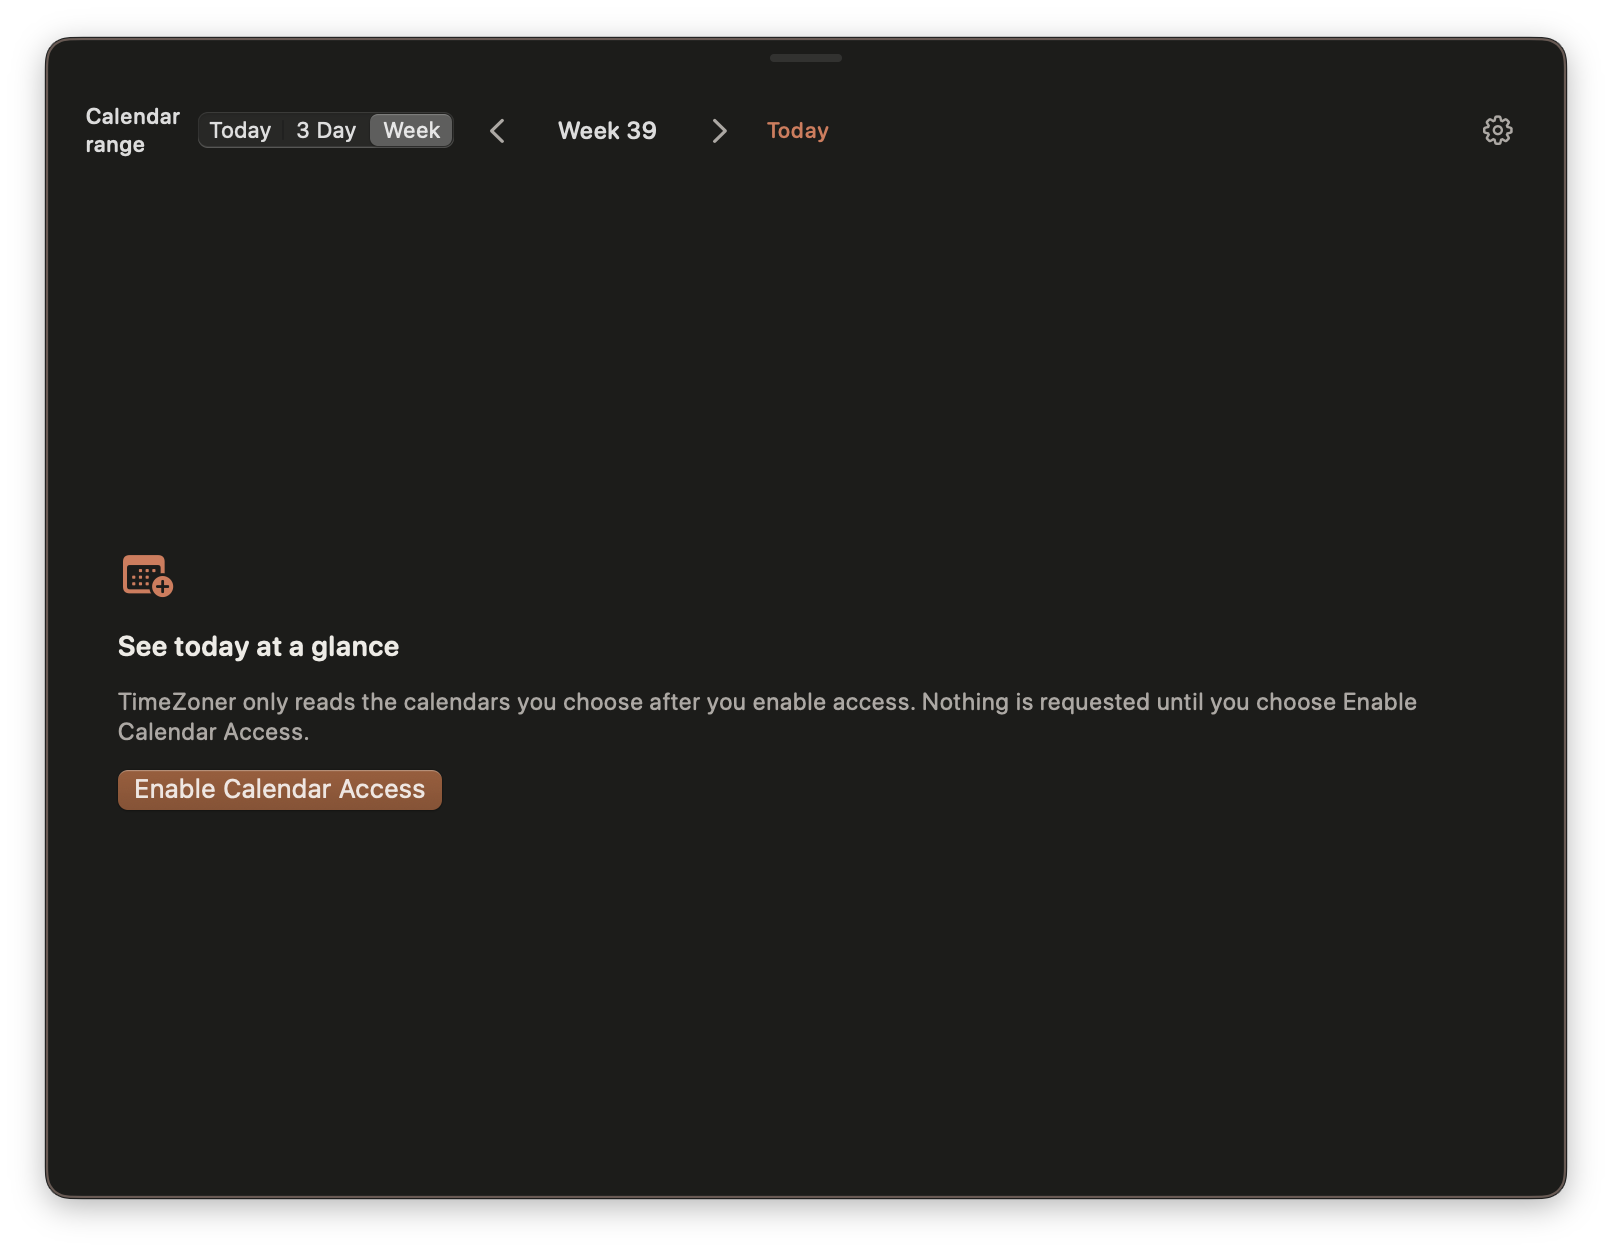
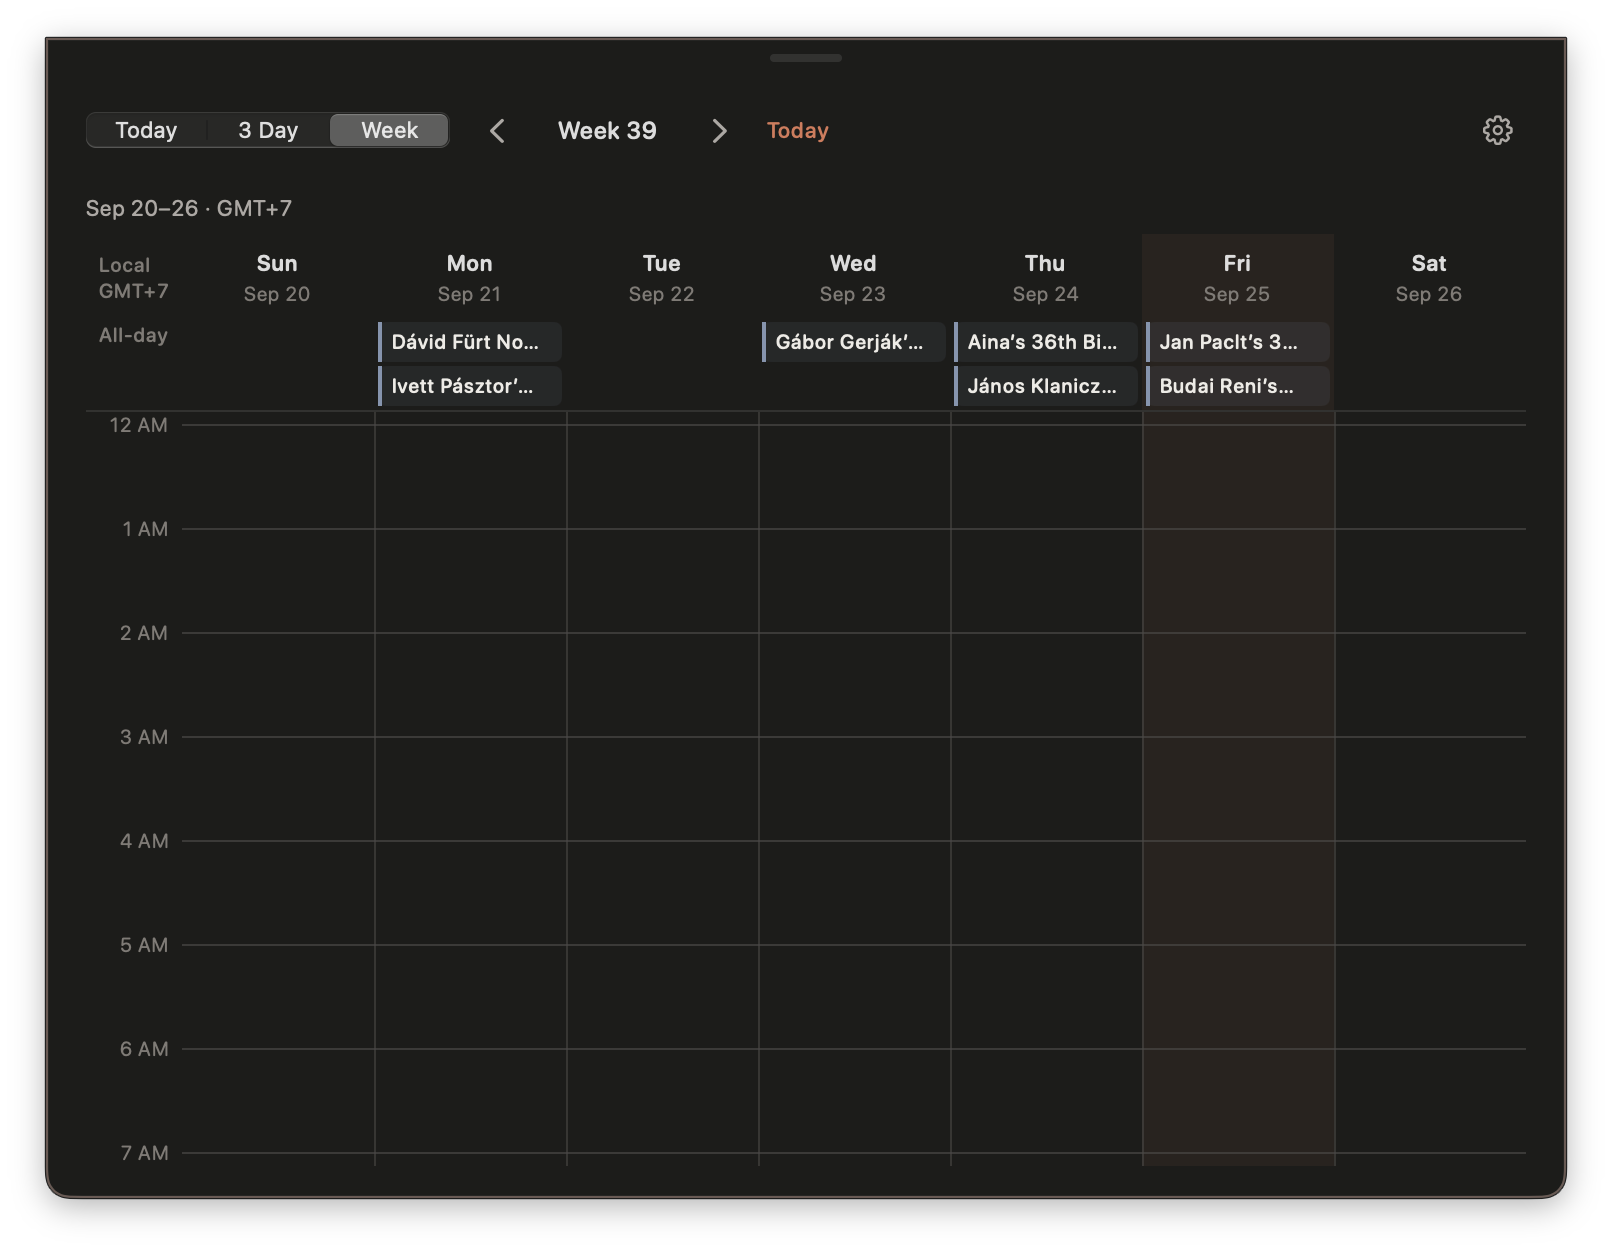
docs: refresh calendar workspace verification

diff --git a/docs/verification/calendar-workspace-transition-2026-09-25.md b/docs/verification/calendar-workspace-transition-2026-09-25.md
@@ -2,48 +2,50 @@
 
 ## Build under test
 
-- Source commit: `e314fdd0c7b6c963c7c0766563a9c54dd6490a70` (`fix: retain calendar workspace panel size`). The source tree built, installed, and inspected matched this commit; this record is committed separately.
+- Source commits: `6bb4f01` (`fix: retain calendar workspace panel size`), `3bb3004bbc74d2da1a8bf9448b44c4a3678d9f87` (`fix: hide calendar range picker labels`), and `2e00c7ab35f93df25b04a56b4b18b787a7a874c2` (`fix: settle calendar transitions for external changes`). The source tree built, installed, and inspected matched these commits; this record is committed separately.
 - Host: macOS 26.6.2 (25G83), arm64.
 - Installed executable: `/Users/team/Applications/TimeZoner.app/Contents/MacOS/TimeZoner`.
-- Installation: after normally quitting the identified TimeZoner processes, ran `./install.sh --skip-build --destination /Users/team/Applications`, verified the installed bundle signature, then ran `open -n /Users/team/Applications/TimeZoner.app`.
-- Process verification: the final launch was checked by exact executable path, not app name. After restoring the original `Show agenda = false` preference, it was `52252 /Users/team/Applications/TimeZoner.app/Contents/MacOS/TimeZoner`.
+- Installation: after inspecting identified TimeZoner processes, attempted normal Quit. Windowless orphan instances did not terminate, so only their recorded TimeZoner PIDs received graceful `TERM` before running `./install.sh --skip-build --destination /Users/team/Applications`, verifying the installed bundle signature, and finally running `open -n /Users/team/Applications/TimeZoner.app`.
+- Process verification: the final launch was checked by exact executable path, not app name. After restoring the original `Show agenda = false` preference, it was `60905 /Users/team/Applications/TimeZoner.app/Contents/MacOS/TimeZoner`.
 - Installed signature: `codesign --verify --deep --strict /Users/team/Applications/TimeZoner.app` exited 0.
 
 ## Automated checks
 
 | Command | Actual result |
 | --- | --- |
-| `cd app && swift run TimeZonerTests` | 773 passed, 0 failed; exit 0. Includes the new `CalendarPanelHostTests` regression. |
+| `cd app && swift run TimeZonerTests` | 777 passed, 0 failed; exit 0. Includes the panel-host, picker-accessibility, deep-link-entry, and current-display-restoration regressions. |
 | `./scripts/build.sh` | Production build completed; `TimeZoner.app` ad-hoc signed. |
 | `codesign --verify --deep --strict app/TimeZoner.app` | Exit 0, no diagnostic output. |
 | `git diff --check` | Exit 0, no output. |
 
 ## Native observations
 
-- Calendar permission was not granted. Rendering the compact calendar showed the access explanation and **Enable Calendar Access** control without requesting permission; that button was not activated.
+- An initial pre-fix capture showed the access explanation and **Enable Calendar Access** control without requesting permission; that button was not activated. In the final installed-app recheck, existing EventKit-local read access refreshed and rendered local all-day rows plus read-only calendar controls. No access button or privacy control was activated, and no calendar event was created, changed, or deleted.
 - With a temporary, restored `Show agenda` preference, the compact companion was a real 220 × 580 native window adjacent to the normal 768 × 580 TimeZoner panel. Its header exposed only `Friday, Sep 25` and **Expand calendar**: no `Agenda` title or duplicate calendar glyph was present.
 - Expanding produced two real native windows: a 240 × 580 rail and a 760 × 580 full calendar. The rail retained its stacked, neutral city cards and explicit **Expand TimeZoner** return control. Returning restored the normal TimeZoner surface and compact companion.
 - The full calendar settings gear opened the same settings popover. The normal-panel gear was also observed. The observed captures retain the existing neutral cards, controls, typography, borders, spacing, and map styling.
 - A typed `11:30am SF` changed the city values and the seven interior three-hour map labels from `01 04 07 10 13 16 19` to `09 12 15 18 21 00 03`; **Now** restored the live city values and label sequence. The neutral day/night overlay remained visible and city dots remained legible.
 - A native-QA defect was found and repaired under Task 7's concrete-defect allowance. Before the repair, expanding with Calendar access unavailable left the calendar panel at 760 × 1904 while the coordinator's frame target was 760 × 580, leaving a large blank area. The cause was an unconstrained bare `NSHostingView` adopting the full calendar root's intrinsic size. `CalendarPanelHosting.fixed` sets the reviewed initial host size and clears `sizingOptions`; after rebuilding/reinstalling, the native window report was exactly rail 240 × 580 and calendar 760 × 580. `CalendarPanelHostTests` is the focused regression for the fixed hosting policy.
-- Stable-state captures (absolute local paths):
-  - `/Users/team/dev/worktrees/Timezoner/codex-tz-calendar-verification/docs/verification/screenshots/calendar-workspace-normal-light-final.png`
-  - `/Users/team/dev/worktrees/Timezoner/codex-tz-calendar-verification/docs/verification/screenshots/calendar-workspace-compact-light-final.png`
-  - `/Users/team/dev/worktrees/Timezoner/codex-tz-calendar-verification/docs/verification/screenshots/calendar-workspace-rail-light-fixed.png`
-  - `/Users/team/dev/worktrees/Timezoner/codex-tz-calendar-verification/docs/verification/screenshots/calendar-workspace-full-light-fixed.png`
-  - `/Users/team/dev/worktrees/Timezoner/codex-tz-calendar-verification/docs/verification/screenshots/calendar-workspace-normal-dark-final.png`
-  - `/Users/team/dev/worktrees/Timezoner/codex-tz-calendar-verification/docs/verification/screenshots/calendar-workspace-compact-dark-final.png`
-  - `/Users/team/dev/worktrees/Timezoner/codex-tz-calendar-verification/docs/verification/screenshots/calendar-workspace-rail-dark-fixed.png`
-  - `/Users/team/dev/worktrees/Timezoner/codex-tz-calendar-verification/docs/verification/screenshots/calendar-workspace-full-dark-fixed.png`
+- The final light and dark full-workspace captures show the normal 40-point one-line toolbar order—Today/3 Day/Week, previous, date, next, Today, settings—with no visible **Calendar range** label. The control retains the explicit **Calendar range** VoiceOver name and its Day/Three day/Week options. The focused `CalendarAccessibilityTests` regression protects that semantic label.
+- Two final-review lifecycle races were repaired under the same Task 7 concrete-defect allowance. External deep links now always synchronously ask the native owner to settle/restore TimeZoner before applying, even while the value destination still reads TimeZoner during calendar entry; `TimeZonerDeepLinkTests` proves restore-before-apply for that state. Transition settlement also rebuilds its target from the saved normal snapshot against the current visible display rather than a cached native target; `CalendarPanelCoordinatorTests` proves a removed-display normal return reclamps before its snapshot is cleared.
+- Stable-state captures (committed repository paths):
+  - `docs/verification/screenshots/calendar-workspace-normal-light-final.png`
+  - `docs/verification/screenshots/calendar-workspace-compact-light-final.png`
+  - `docs/verification/screenshots/calendar-workspace-rail-light-fixed.png`
+  - `docs/verification/screenshots/calendar-workspace-full-light-fixed.png`
+  - `docs/verification/screenshots/calendar-workspace-normal-dark-final.png`
+  - `docs/verification/screenshots/calendar-workspace-compact-dark-final.png`
+  - `docs/verification/screenshots/calendar-workspace-rail-dark-fixed.png`
+  - `docs/verification/screenshots/calendar-workspace-full-dark-fixed.png`
 - A short transition recording was not available from the native automation surface.
 
 The Task 7 prose asks for eight visible three-hour map labels. The approved Task H contract and implementation deliberately render seven interior labels (indices 3, 6, 9, 12, 15, 18, and 21), omitting the date-line seam. This record reports the implemented, tested seven-label behavior; no eighth label was added.
 
 ## Conditions not exercised
 
-- Calendar access was not granted, so no real timed/all-day event selection, event-details focus transfer, calendar-range data refresh, or per-calendar filtering was exercised. No event was created, changed, or deleted.
+- No real timed/all-day event selection, event-details focus transfer, calendar-range navigation, or per-calendar filtering was exercised. Existing local all-day rows were only rendered; no event was created, changed, or deleted.
 - The automation surface could focus the compact and full panels but could not reliably inject Escape during the 340 ms native transition; repeated-expansion, mid-animation Escape, external-app blur, and global-hotkey checks remain untested rather than passed.
 - Reduce Motion was not changed, so its opacity-only transition behavior remains untested. The original app appearance setting (`System`) was restored after temporary light/dark capture.
 - The real saved-city list was not changed. Native 0/1/2/8-city cases, narrow 800/500-point displays, compact toolbar/grid scrolling, left/popover placement, pair dragging, and display removal/multi-display movement remain covered by deterministic tests but are untested on this host.
 - `timezoner://set` with a missing city and real notification activation were not invoked, to avoid altering the user's city list or fabricating a notification result.
-- The original explicit `Show agenda = false` preference was recorded before temporary layout QA and is restored after the final relaunch. No Calendar permissions or user defaults were erased.
+- The original explicit `Show agenda = false` and `System` appearance preferences were recorded before temporary layout QA and are restored after the final relaunch. No Calendar permissions were requested or altered, and no user defaults were erased.
